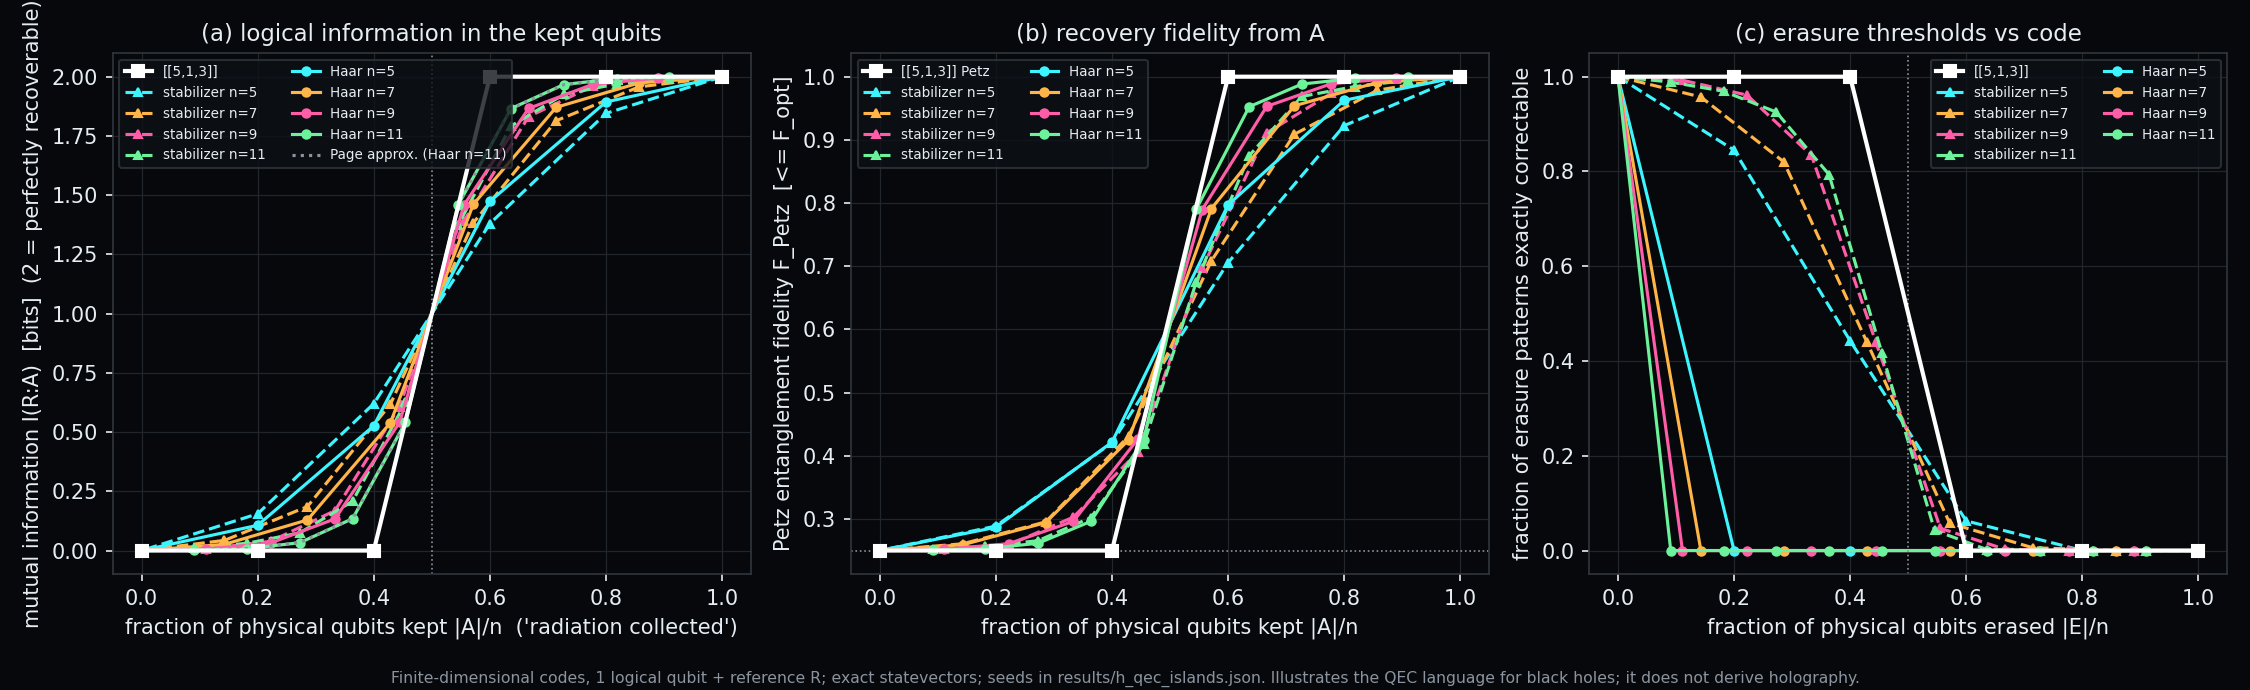
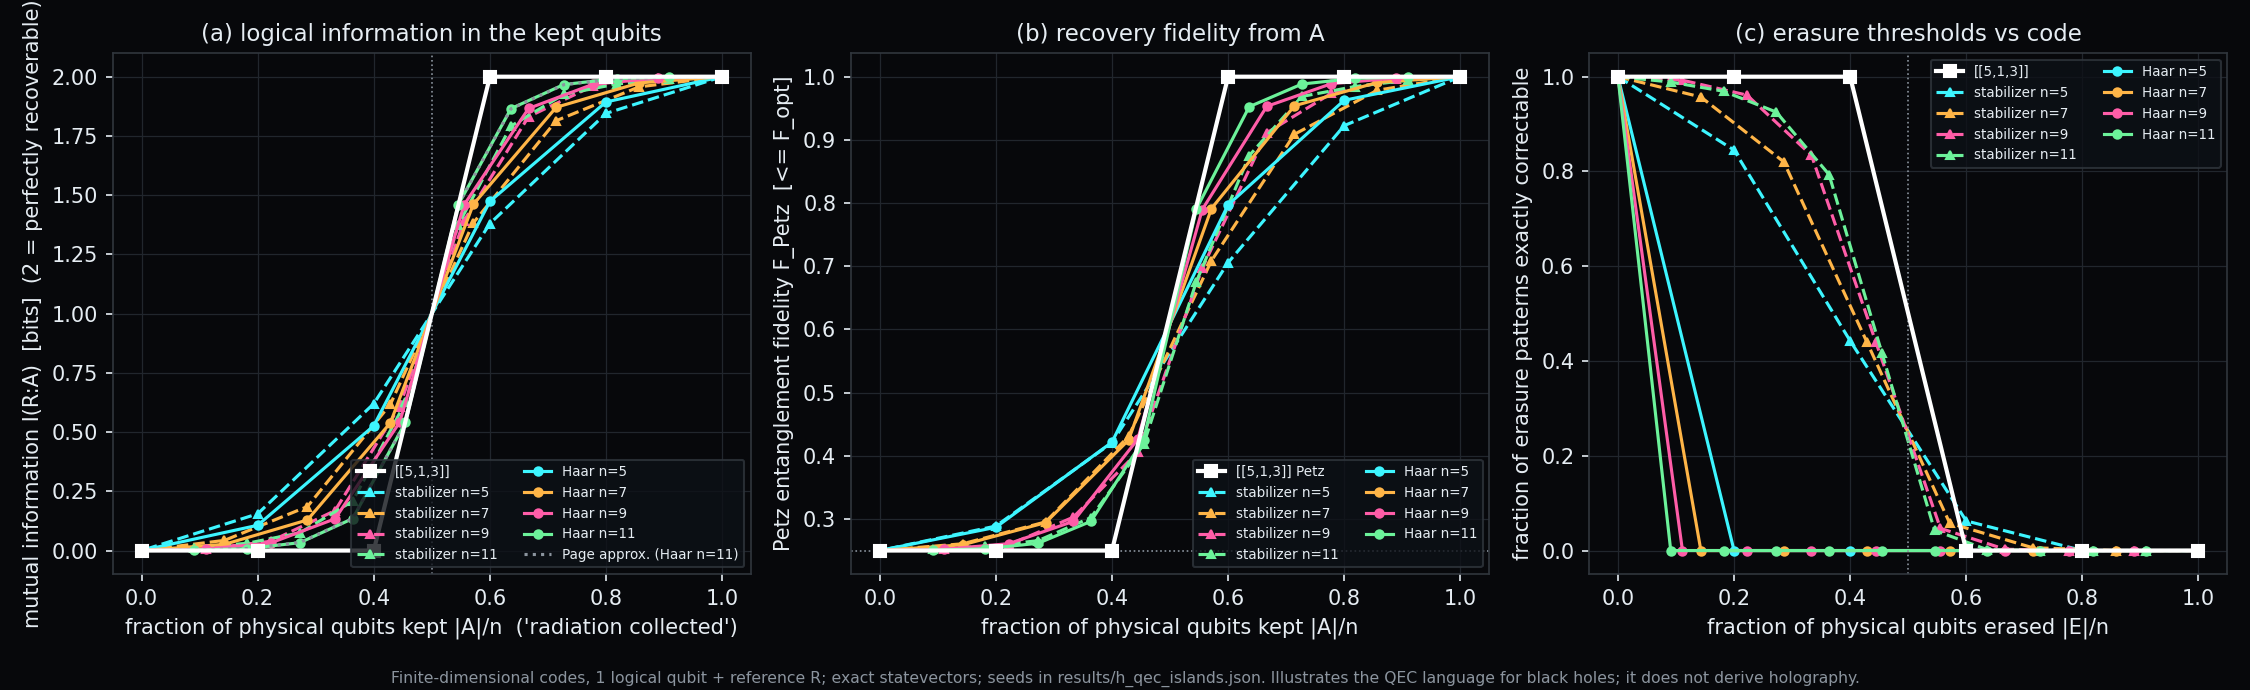
Update problems: rmt.py, g_recovery.py (+2 more); web: blackhole.tsx

diff --git a/web/src/viz3d/blackhole.tsx b/web/src/viz3d/blackhole.tsx
@@ -138,13 +138,23 @@ void main() {
   float h2 = dot(hv, hv) * uLensing;
   float r0 = length(x);
   float vinf = sqrt(max(1.0 - h2 / (r0 * r0 * r0), 1e-6));
-  float L = -hv.y / vinf;                       // photon angular momentum about the disk axis (physical direction)
-  // An outward-moving photon outside the photon sphere (r > 1.5) never turns back, so once it is beyond the disk
-  // it can only escape: stop there and use its current direction (the remaining weak-field bend is tiny).
+  // Photon angular momentum about the disk axis, sign chosen so the gas orbits in the +phi = atan(z, x) sense:
+  // the same sense the turbulence texture is advected in, and the same bright side as the A100 render.
+  float L = hv.y / vinf;
+  // An outward-moving photon outside the photon sphere (r > 1.5) never turns back, so once it is beyond the disk it
+  // can only escape: stop there and add the remaining weak-field bend analytically (below).
   float rEsc = uRout + 2.0;
   int state = 0;                                 // 0 running, 1 disk, 2 captured, 3 escaped
   float rc = 0.0, phc = 0.0;
+  // a camera far outside rEsc: move along the (nearly straight) ray to the rEsc sphere first, or escape at once
+  if (r0 > rEsc) {
+    float bq = dot(x, v);
+    float disc = bq * bq - (r0 * r0 - rEsc * rEsc);
+    if (disc < 0.0 || bq > 0.0) { state = 3; }
+    else { x += (-bq - sqrt(disc)) * v; }
+  }
   for (int i = 0; i < MAX_STEPS; i++) {
+    if (state != 0) break;
     float r = length(x);
     float dt = clamp(0.03 * r * r, 0.004, 0.08 * r + 0.2);
     vec3 k1x = v;                   vec3 k1v = acc(x, h2);
@@ -161,7 +171,7 @@ void main() {
     }
     float rn = length(xn);
     if (rn < 1.0) { state = 2; break; }
-    if (rn > rEsc && dot(xn, vn) > 0.0) { state = 3; v = vn; break; }
+    if (rn > rEsc && dot(xn, vn) > 0.0) { state = 3; x = xn; v = vn; break; }
     x = xn;
     v = vn;
   }
@@ -176,7 +186,15 @@ void main() {
     float I = pow(g * Tn, 4.0) * (0.22 + 1.6 * pow(turb, 1.7)) * fade;
     col = kelvin(g * Tn * uTpeak) * I * uExposure;
   } else if (state == 3) {
-    col = stars(normalize(v)) * 0.55;
+    // remaining weak-field deflection from the exit point to infinity (first order in M/b), towards the hole
+    vec3 vh = normalize(v);
+    float rr = length(x);
+    float s = dot(x, vh);
+    vec3 bv = x - s * vh;
+    float b = max(length(bv), 1e-4);
+    float del = uLensing * (1.0 / b) * (1.0 - s * (3.0 * b * b + 2.0 * s * s) / (2.0 * rr * rr * rr));
+    vec3 d = vh * cos(del) - (bv / b) * sin(del);
+    col = stars(normalize(d)) * 0.55;
   }
   col = aces(col);
   float l = dot(col, LUMA);

diff --git a/problems/event-horizon/eh/rmt.py b/problems/event-horizon/eh/rmt.py
@@ -175,3 +175,60 @@ def flatness(p, clip: float = 1e-12) -> dict:
     return {"rank": int(r), "log2_rank": float(math.log2(r)) if r else float("nan"),
             "max_rel_dev": float(np.max(np.abs(nz * r - 1.0))) if r else float("nan"),
             "var_nonzero": float(np.var(nz)) if r else float("nan")}
+
+
+# ----------------------------------------------------------------------------- exact stabilizer ensemble
+def enumerate_stabilizer_states(n: int) -> np.ndarray:
+    """All n-qubit stabilizer states (mod global phase) as an (M, 2^n) array, by breadth-first
+    search from |0..0> under the Clifford generators {H_i, S_i, CNOT_ij}.  M must equal
+    2^n prod_{k=1}^n (2^k + 1) (Aaronson & Gottesman 2004): 6, 60, 1080, 36720 for n = 1..4.
+    The uniform distribution on this set is the Clifford orbit of |0..0>, a state 3-design."""
+    d = 2**n
+    h = np.array([[1, 1], [1, -1]], dtype=complex) / math.sqrt(2.0)
+    s = np.diag([1, 1j]).astype(complex)
+
+    def one(batch, g, i):
+        t = batch.reshape((-1,) + (2,) * n)
+        t = np.moveaxis(np.tensordot(g, t, axes=([1], [i + 1])), 0, i + 1)
+        return t.reshape(-1, d)
+
+    def cnot(batch, c, t_):
+        t = batch.reshape((-1,) + (2,) * n).copy()
+        idx1 = [slice(None)] * (n + 1)
+        idx1[c + 1] = 1
+        sub = t[tuple(idx1)]  # control = 1 block; target axis shifts if t_ > c
+        ax = t_ if t_ < c else t_ - 1
+        t[tuple(idx1)] = np.flip(sub, axis=ax + 1)
+        return t.reshape(-1, d)
+
+    def canon(batch):
+        idx = np.argmax(np.abs(batch) > 1e-9, axis=1)
+        lead = batch[np.arange(len(batch)), idx]
+        return batch * (np.abs(lead) / lead)[:, None]
+
+    def keys(batch):
+        r = np.round(batch, 8) + 0.0
+        return [row.tobytes() for row in r]
+
+    start = np.zeros((1, d), dtype=complex)
+    start[0, 0] = 1.0
+    seen = {keys(start)[0]}
+    out = [start]
+    frontier = start
+    while len(frontier):
+        cands = [one(frontier, h, i) for i in range(n)] + [one(frontier, s, i) for i in range(n)]
+        cands += [cnot(frontier, a, b) for a in range(n) for b in range(n) if a != b]
+        cand = canon(np.concatenate(cands))
+        nxt = []
+        for k, v in zip(keys(cand), cand):
+            if k not in seen:
+                seen.add(k)
+                nxt.append(v)
+        frontier = np.array(nxt) if nxt else np.zeros((0, d), dtype=complex)
+        if nxt:
+            out.append(frontier)
+    return np.concatenate(out)
+
+
+def n_stabilizer_states(n: int) -> int:
+    return 2**n * math.prod(2**k + 1 for k in range(1, n + 1))

diff --git a/problems/event-horizon/experiments/g_recovery.py b/problems/event-horizon/experiments/g_recovery.py
@@ -234,8 +234,12 @@ def part_plot():
     import _style as st
     plt = st.setup()
     g1 = json.load(open(os.path.join(PARTS, "g1.json")))
-    g2 = json.load(open(os.path.join(PARTS, "g2_D_n4.json")))
-    g2r = json.load(open(os.path.join(PARTS, "g2_DR_n4.json")))
+    big = all(os.path.exists(os.path.join(PARTS, f)) for f in ("g2_D.json", "g2_DR.json"))
+    g2 = json.load(open(os.path.join(PARTS, "g2_D.json" if big else "g2_D_n4.json")))
+    g2r = json.load(open(os.path.join(PARTS, "g2_DR.json" if big else "g2_DR_n4.json")))
+    if "scramblers" not in g2:
+        g2["scramblers"] = SCRAMBLERS_G2
+    small = {f: json.load(open(os.path.join(PARTS, f))) for f in ("g2_D_n4.json", "g2_DR_n4.json")}
     g3 = json.load(open(os.path.join(PARTS, "g3_fast.json")))
     extra = {f: json.load(open(os.path.join(PARTS, f))) for f in ("g2_D.json", "g2_DR.json", "g3.json")
              if os.path.exists(os.path.join(PARTS, f))}
@@ -280,6 +284,8 @@ def part_plot():
                 s = c["metrics"]["F_petz"][c["k"] + off]
                 xs.append(c["n_B"]); ys.append(1 - s["mean"]); es.append(s["sem"])
         ax[2].errorbar(xs, ys, yerr=es, marker="o", color=colr, label=f"old, m - k = {off}")
+        pr = [c["bounds"][c["k"] + off]["T_mm_bound"] ** 2 for c in g1["configs"] if c["k"] == 1 and c["old"]]
+        ax[2].plot(xs, pr, ":", color=colr, lw=1.2, label="(D E[tr rho^2] - 1)/4 (Bures 2nd order)" if off == 1 else None)
         xs, ys = [], []
         for c in g1["configs"]:
             if c["k"] == 1 and not c["old"]:
@@ -403,6 +409,7 @@ def part_plot():
     merged = {"description": "Tracks C+D: explicit HP recovery (Petz decoder), scrambling quality, noise, OTOCs",
               "decoder": "Petz recovery map (transpose channel), sigma = 1/d_M; Yoshida-Kitaev P_EPR/F_EPR alongside",
               "g1": g1, "g2_noise_D": g2, "g2_noise_DR": g2r, "g3": g3,
+              "g2_used_n": g2["k"] + g2["n_B"], "g2_n4_runs": small,
               "extra_larger_runs_if_finished": extra}
     with open(os.path.join(ROOT, "results", "g_recovery.json"), "w") as f:
         json.dump(merged, f, indent=1)

diff --git a/problems/event-horizon/experiments/h_qec_islands.py b/problems/event-horizon/experiments/h_qec_islands.py
@@ -187,8 +187,8 @@ def make_figures(agg, isl_out):
     ax[2].set_ylabel("fraction of erasure patterns exactly correctable")
     ax[2].set_title("(c) erasure thresholds vs code")
     ax[2].axvline(0.5, color=GREY, lw=0.8, ls=":")
-    ax[0].legend(fontsize=6.5, ncol=2, loc="upper left")
-    ax[1].legend(fontsize=6.5, ncol=2, loc="upper left")
+    ax[0].legend(fontsize=6.5, ncol=2, loc="lower right")
+    ax[1].legend(fontsize=6.5, ncol=2, loc="lower right")
     ax[2].legend(fontsize=6.5, ncol=2, loc="upper right")
     caption(fig, "Finite-dimensional codes, 1 logical qubit + reference R; exact statevectors; seeds in results/h_qec_islands.json. "
                  "Illustrates the QEC language for black holes; it does not derive holography.")
